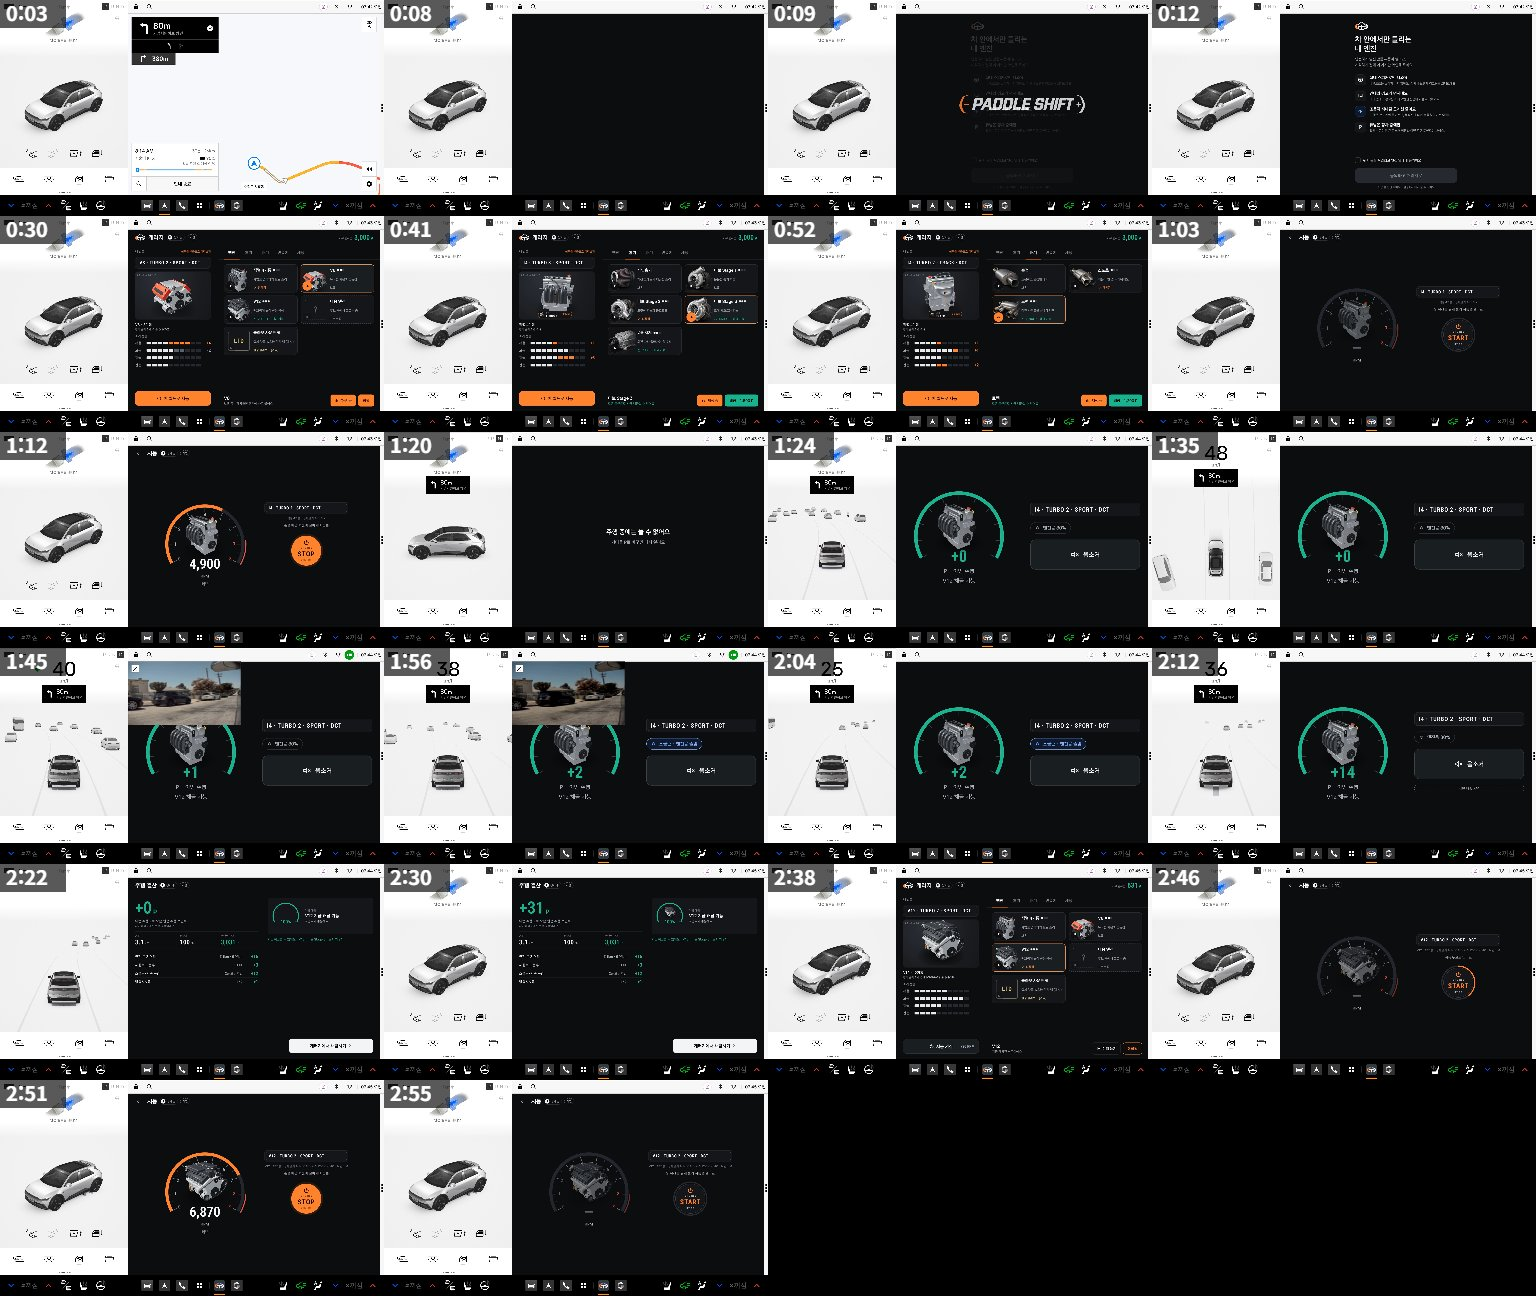
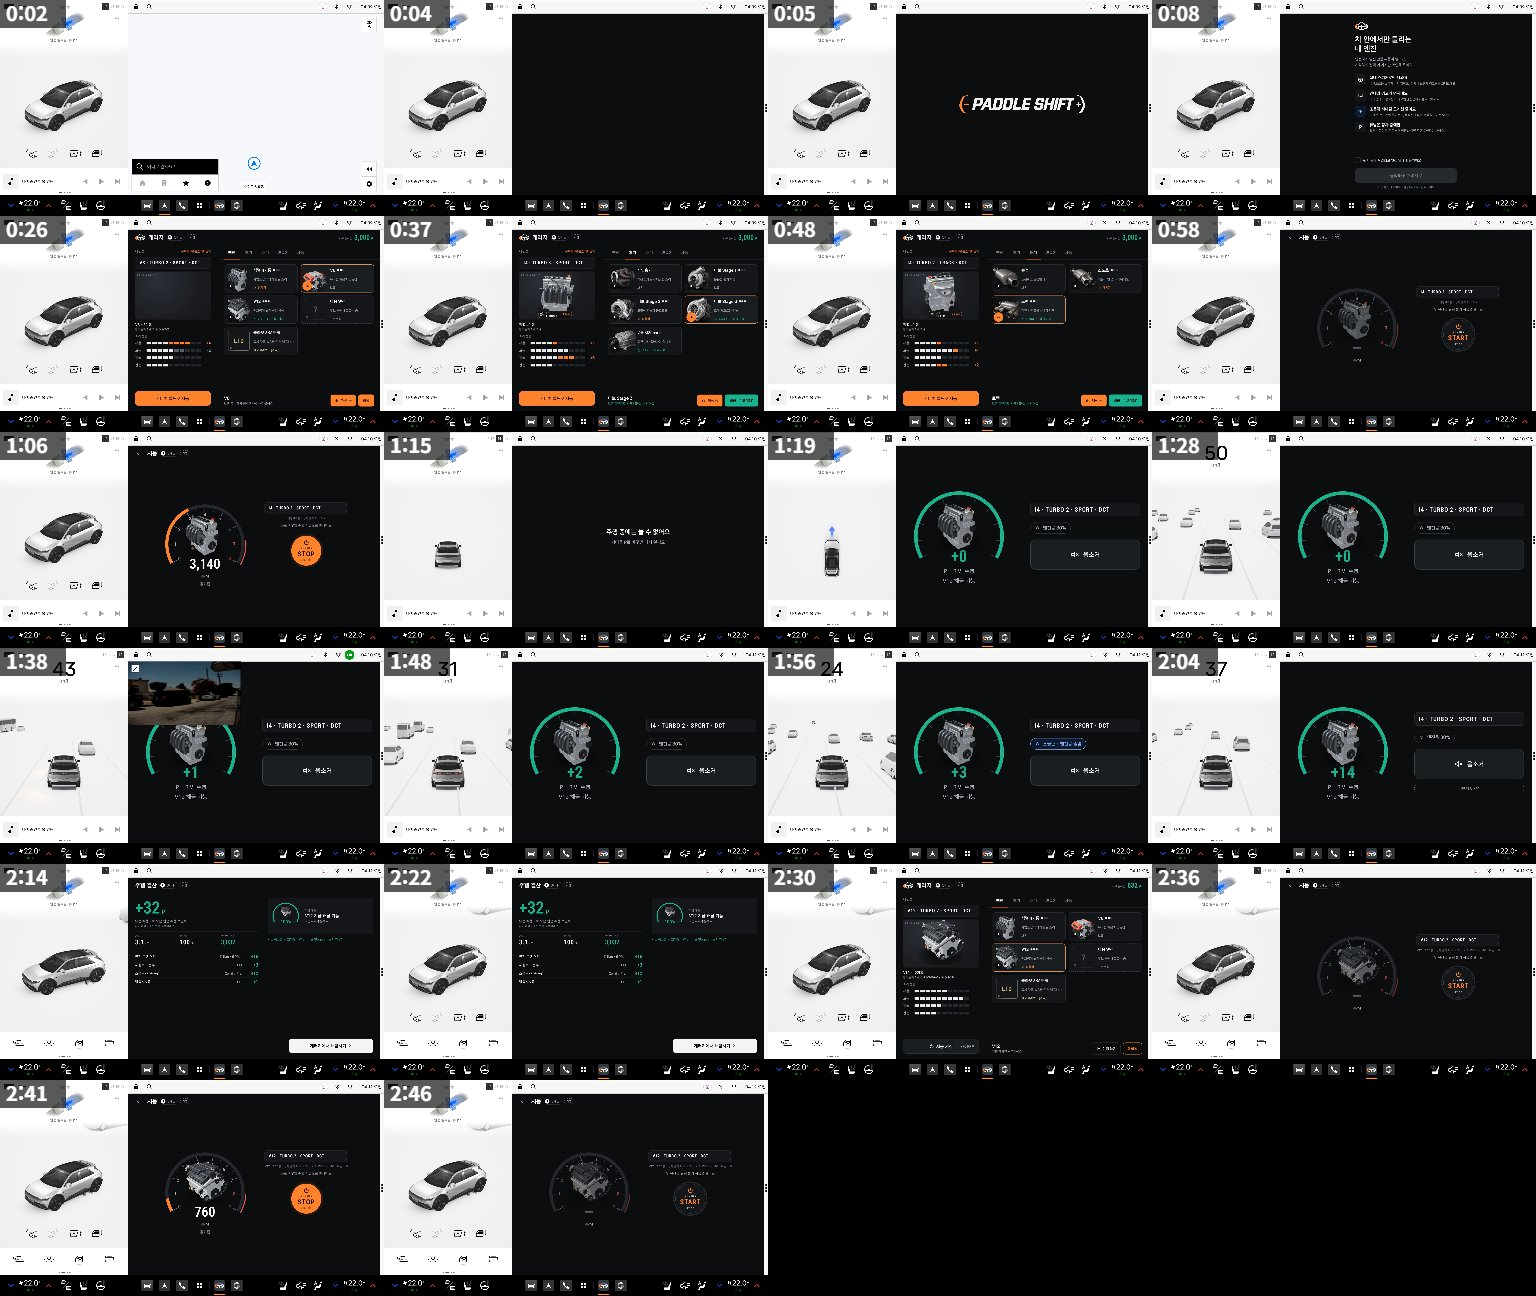
docs: the demo video recorded again on a fresh emulator
The early-morning takes stuttered (about 17 fps, audio gaps) while the PC was short of memory, so
the video was recorded once more after a PC restart and a cold boot of the emulator: 168 s at a
steady 24 fps with no audio gaps, from the team wordmark through the lock view in neutral, the
drive screen and the school zone cut (-27.7 dB against -19.3 dB driving) to the V12 start.
demo.srt (17 cues), youtube.md (chapters from 0:00) and video_frames.jpg follow it, and the
README and docs/m4-results.md carry the new length and measurements.

diff --git a/docs/m4-results.md b/docs/m4-results.md
@@ -16,7 +16,7 @@
 | `DriveService` | 엔진이 켜졌거나 주행 기록 중일 때 미디어 재생 포그라운드 서비스(조용한 알림), 둘 다 끝나고 5초 뒤 내림 |
 | 권한 요청 | 실행 중에 받을 수 있는(dangerous) 권한만 묻는다. 받을 수 없는 권한까지 물어 시작할 때마다 권한 창이 뜨던 것을 고침 |
 | 도구 | `tools/lib.sh`(공통 함수), `tools/show.sh`(wallet·latency·cpu·background·pt·video·shots·volume·soak·coldstart·release), `pedal_client.mjs`, `webm_audio.py`, `export_shots.py`. `drive.sh`·`garage.sh`는 lib.sh와 시연 모드를 쓴다 |
-| 시연 영상 | `show.sh video`: 에뮬레이터 자체 녹화(1920×1080 VP9 + Vorbis), 자막(`demo.srt`), YouTube 제목·설명·챕터(`youtube.md`), 장면 프레임(`video_frames.jpg`). 11/04에 다시 녹화: 176초, 자막 17개, 콜드 스타트의 팀 로고로 시작하고 기어 N 잠금 화면과 주행 화면이 보인다(11/03 판은 155초, 주행 중 화면이 가려짐) |
+| 시연 영상 | `show.sh video`: 에뮬레이터 자체 녹화(1920×1080 VP9 + Vorbis), 자막(`demo.srt`), YouTube 제목·설명·챕터(`youtube.md`), 장면 프레임(`video_frames.jpg`). 11/04 저녁에 다시 녹화: 168초(2분 48초), 자막 17개, 콜드 스타트의 팀 로고로 시작하고 기어 N 잠금 화면과 주행 화면이 보인다(11/03 판은 155초, 주행 중 화면이 가려짐) |
 | 캡처 | 9장 JPEG(`docs/m4/shots/`, `현기차_경진대회/화면캡처_다운시프트/`) |
 | 제출물 | 심사용 README, release APK 0.4.0(`apk/Downshift_release.apk`), 기획서 초안과 접수양식 DOCX(`현기차_경진대회/`) |
 
@@ -36,7 +36,7 @@
 | 콜드 스타트 | 중앙값 4.0초 (권한 창 없이 앱 첫 화면까지) | 10초 이내 | `m4/coldstart.txt` |
 | 30분 연속 주행 (V12, 2분 안팎 주기 33번) | 재시작·크래시·FATAL·ANR 0. 주행 CPU 평균 17.5%(주기 평균 14.0~23.7, 1초 최대 54.0), PSS 108MB → 115~128MB에서 안정. 시연 지갑 +133P로 33번 모두 정산(로그 버퍼가 넘쳐 로그에는 10번만 남음) | 무중단, 주행 ≤ 20 | `m4/soak.txt` |
 | release APK | 27MB, 음원 파일(wav·dsa) 0, 웹 페달 페이지 포함. 설치·실행, 개발용 줄 없음, adb 명령 도착(DUMP), 웹 페달 200, 시연 모드 꺼짐에서 포인트 주입 무시 | 설치·실행 | `m4/release.txt` |
-| 시연 영상 소리 (11/04 판) | 장면별 RMS: 첫 실행 무음(−104dB), 개러지 −17.5dB, 시동·레브 −22.2dB, N 공회전 −25.8dB, 주행 −19.8dB(안내 음성 구간 −36.7dB로 줄어듦), 결산 −26.5dB, V12 −25.0dB. 풀스케일 샘플 0(11/03 판은 5). 녹화 중 PC 메모리가 모자라(여유 0.4GB) 영상은 평균 17fps로 고르지 않고(11/03 판 24fps), 1:40~2:00에 60~190ms 소리 끊김이 몇 번 있다 | 들을 만한 크기, 클리핑 없음 | 브라우저 `decodeAudioData`, WebM 블록 시각 |
+| 시연 영상 (11/04 저녁 판) | 장면별 RMS: 첫 실행 무음, 개러지 −17.5dB, 시동·레브 −21.0dB, N 공회전 −25.8dB, 주행 −19.3dB(스쿨존 −27.7dB, 안내 음성 −35.0dB로 줄어듦), 결산 −25.5dB, V12 −25.3dB. 풀스케일 샘플 0(11/03 판은 5). 영상 24fps로 고르고, 60ms 넘는 소리 공백 3번(시작 무음 구간). PC를 재부팅하고 에뮬레이터를 새로 켠 뒤 찍었다. 새벽에 PC 메모리가 모자란 채(여유 0.4~2GB) 찍은 두 판은 17fps 안팎에 소리가 끊겨 버렸다 | 들을 만한 크기, 클리핑 없음, 끊김 없음 | 브라우저 `decodeAudioData`, WebM 블록 시각 |
 
 ## 추가: 주행 규제 따르기 (11/03 밤)
 

diff --git a/docs/m4/youtube.md b/docs/m4/youtube.md
@@ -13,8 +13,8 @@ Pleos Connect Emulator v2.1.0에서 실제로 돌린 화면과 소리입니다. 
 ## 챕터
 
 0:00 첫 실행 안전 안내
-0:26 개러지와 미리 듣기
-0:58 시동과 정차 중 레브
-1:18 주행 규제와 주행 화면
-2:18 주행 결산과 V12 해금
-2:40 V12 시동
+0:22 개러지와 미리 듣기
+0:54 시동과 정차 중 레브
+1:12 주행 규제와 주행 화면
+2:10 주행 결산과 V12 해금
+2:32 V12 시동
